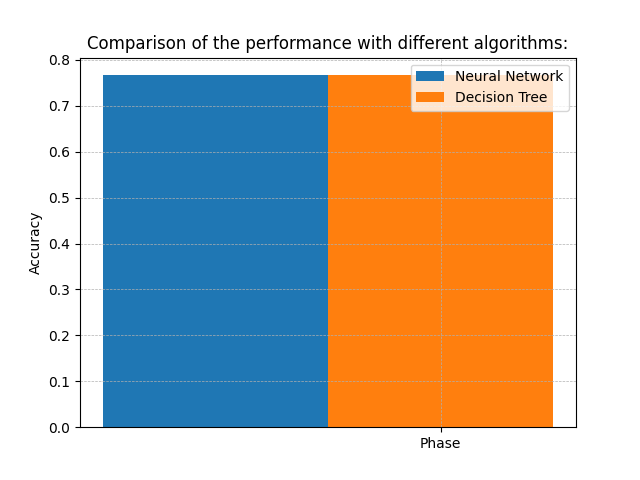
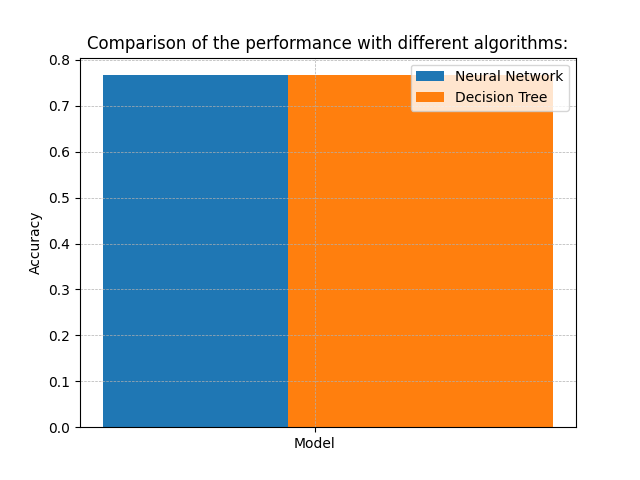
plot fix

Changed region(s): [[0.4375, 0.1562, 0.5312, 0.9375], [0.6562, 0.9062, 0.7188, 0.9375]]

diff --git a/main.py b/main.py
@@ -315,13 +315,13 @@ def calculateConfidenceInterval(mean, std):
     return ci_original
 
 def comparePerformance(firstResults, secondResults, metric, resultName):
-    x = ['Phase']
+    x = ['Model']
     firstY = firstResults
     secondY = secondResults
 
     xAxis = np.arange(len(x)) 
-    plt.bar(xAxis - 0.1, firstY, 0.1, label = 'Neural Network') 
-    plt.bar(xAxis, secondY, 0.1, label = 'Decision Tree') 
+    plt.bar(xAxis - 0.2, firstY, 0.4, label = 'Neural Network') 
+    plt.bar(xAxis + 0.2, secondY, 0.5, label = 'Decision Tree') 
 
     plt.xticks(xAxis, x) 
     plt.ylabel(metric) 
@@ -339,14 +339,14 @@ def plotResults(options):
     print("Precision (NN) = " + str(calculateConfidenceInterval(metricsList[0]['Precision']['mean'], metricsList[0]['Precision']['std'])))
     print("Precison (DT) = " + str(calculateConfidenceInterval(metricsList[1]['Precision']['mean'], metricsList[1]['Precision']['std'])))
     print("Recall (NN) = " + str(calculateConfidenceInterval(metricsList[0]['Recall']['mean'], metricsList[0]['Recall']['std'])))
-    print("Recall (DT) = " + str(calculateConfidenceInterval(metricsList[1]['Accuracy']['mean'], metricsList[1]['Accuracy']['std'])))
+    print("Recall (DT) = " + str(calculateConfidenceInterval(metricsList[1]['Recall']['mean'], metricsList[1]['Recall']['std'])))
     print("F1 Score (NN) = " + str(calculateConfidenceInterval(metricsList[0]['F1Score']['mean'], metricsList[0]['F1Score']['std'])))
     print("F1 Score (DT) = " + str(calculateConfidenceInterval(metricsList[1]['F1Score']['mean'], metricsList[1]['F1Score']['std'])))
     
     #comparePerformance(metricsList[0]['Accuracy']['mean'], metricsList[1]['Accuracy']['mean'], "Accuracy", "resultAcc.png")
     #comparePerformance(metricsList[0]['Precision']['mean'], metricsList[1]['Precision']['mean'], "Precision", "resultPr.png")
-    #comparePerformance(metricsList[0]['Recall']['mean'], metricsList[1]['Recall']['mean'], "Recall", "resultRec.png")
-    comparePerformance(metricsList[0]['F1Score']['mean'], metricsList[1]['F1Score']['mean'], "F1Score", "resultF1.png")
+    comparePerformance(metricsList[0]['Recall']['mean'], metricsList[1]['Recall']['mean'], "Recall", "resultRec.png")
+    #comparePerformance(metricsList[0]['F1Score']['mean'], metricsList[1]['F1Score']['mean'], "F1Score", "resultF1.png")
 
 
 def main():
